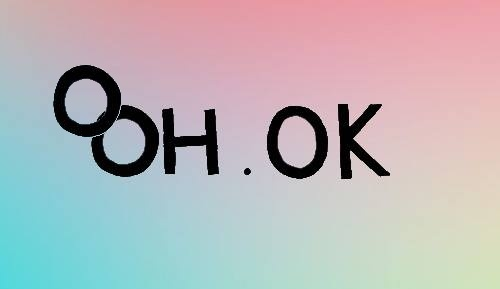
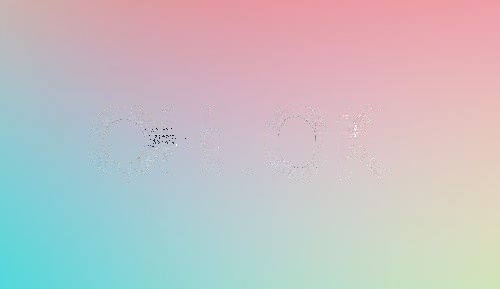
out of bounds functionality

Changed region(s): [[0.09, 0.218, 0.45, 0.6228], [0.51, 0.3426, 0.78, 0.6228], [0.48, 0.5606, 0.51, 0.6228]]

diff --git a/main2.py b/main2.py
@@ -9,7 +9,7 @@ import random
 @click.option('--image', type=str, default='example_01.jpg', help='Image to be modified')
 @click.option('--remove/--no-remove', default=True, help='Remove the text')
 @click.option('--add/--no-add', default=True, help='Add the text back')
-@click.option('--write-step/--no-write-step', default=True, help='Include the write step')
+@click.option('--write-step/--no-write-step', default=False, help='Include the write step')
 @click.option('--show-identified-characters/--no-show-identified-characters', default=False)
 
 #global vars
@@ -227,7 +227,8 @@ def main(image, remove, add, write_step, show_identified_characters):
 			for x in range(len(mask)):
 				for y in range(len(mask[0])):
 					if np.all(mask[x][y]):
-						new_img[x+dx,y+dy] = img[x,y]
+						if x + dx < img.shape[0] and y + dy < img.shape[1]:
+							new_img[x+dx,y+dy] = img[x,y]
 			if write_step:
 				cv2.imwrite(image[:-4] + '_' + str(n) + '.jpg', new_img)
 
